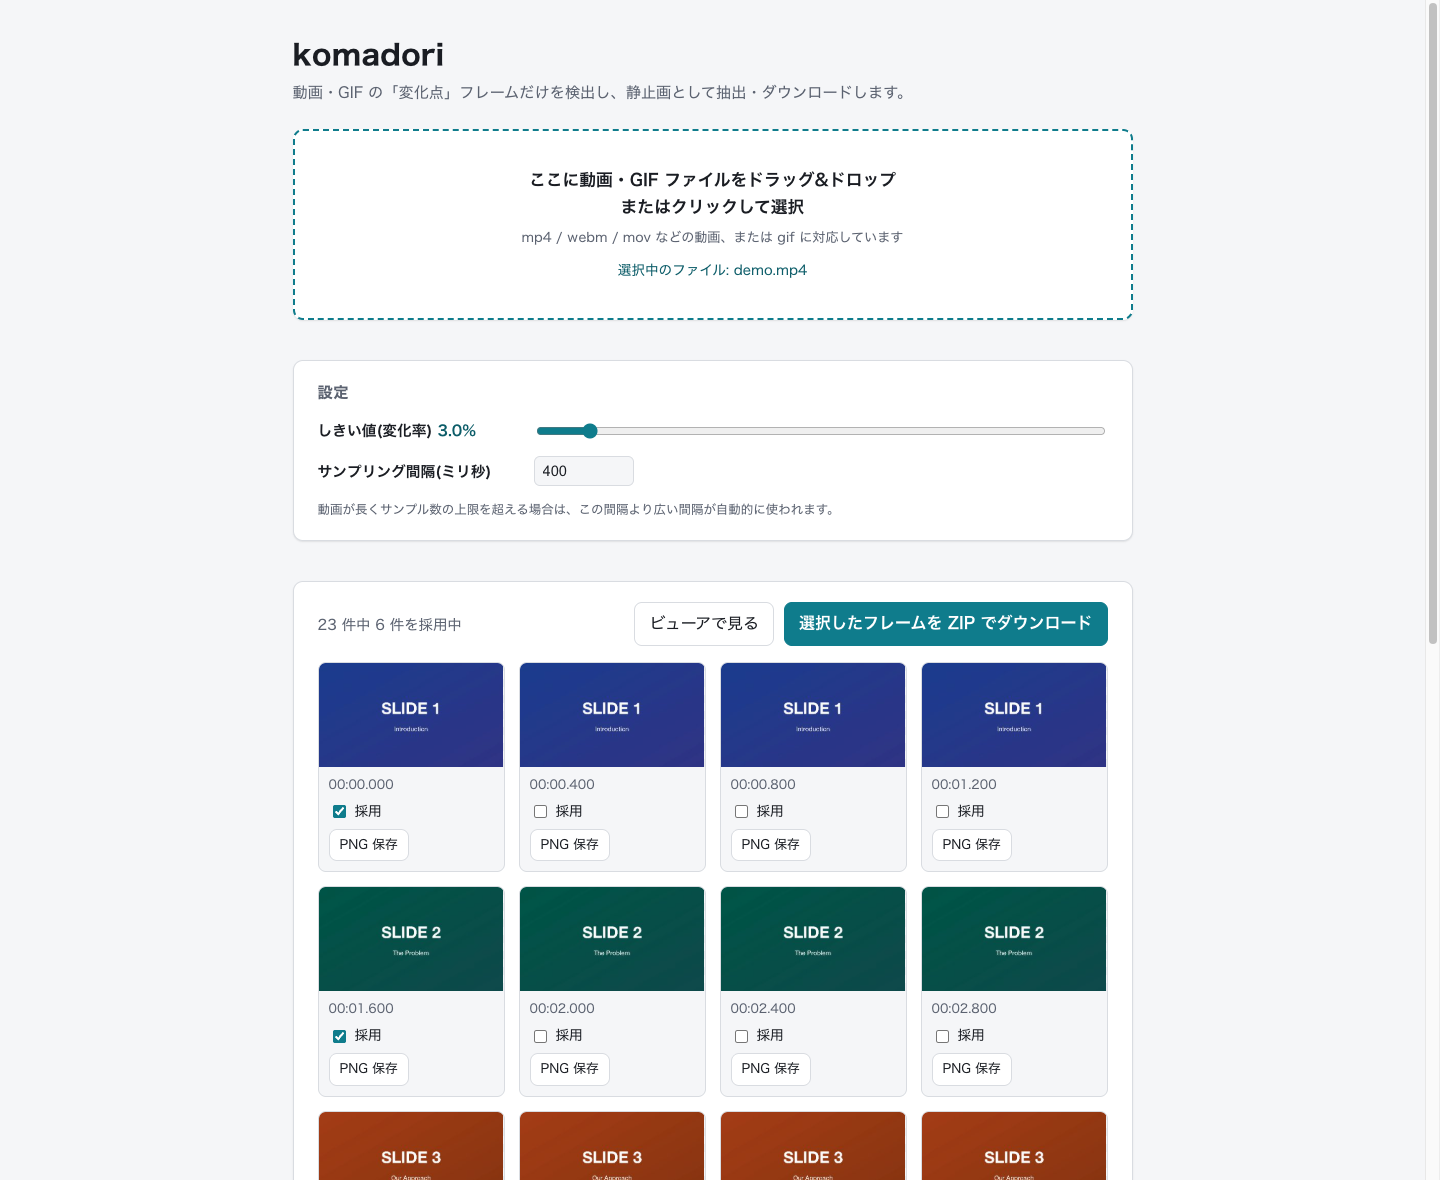
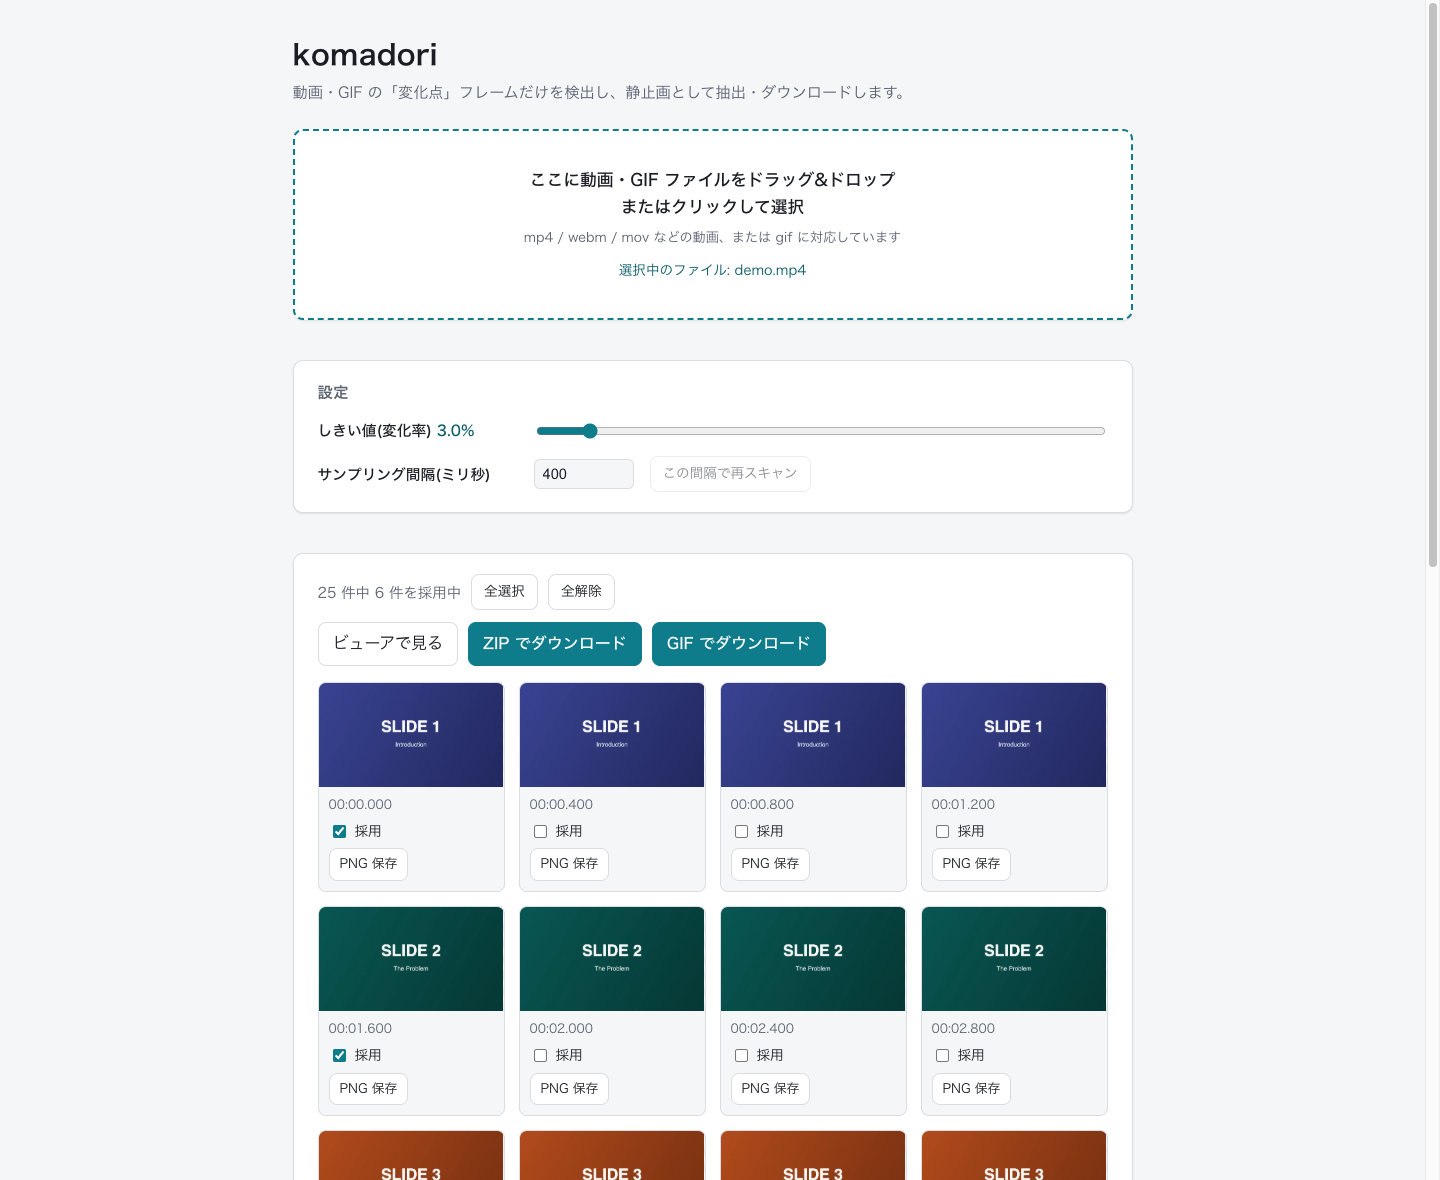
docs: READMEとドキュメント・スクリーンショットを現行UIに合わせて更新する (#17)
スクリーンショットが2026-07-26時点のもので、その後追加された
全選択/全解除ボタン・再スキャンボタン・GIFでダウンロードボタンが
写っていなかったため、同じ構成のスライドデモ動画で撮り直す。

本文も以下を現状に合わせる。

- README: 英語紹介文とリード文にGIF書き出しを反映し、特徴に
  ZIP・GIF書き出しの途中キャンセルを追記する
- usage.md: ZIP・GIF書き出し中の進捗表示とキャンセルボタン、
  書き出しが一度にひとつだけである旨を追記する
- development.md: ランタイム依存にgifencを追加し、ディレクトリ構成へ
  renderQueue.ts / format.ts / gifExport.ts / bulkSelection.ts /
  rescan.tsを反映する

diff --git a/docs/usage.md b/docs/usage.md
@@ -10,7 +10,7 @@
    - しきい値を変更すると、手動で切り替えたチェックボックスの状態はリセットされ、新しいしきい値での自動判定結果に戻ります。
 6. 各フレームの採用/除外は、チェックボックスで手動でも切り替えられます。結果一覧ヘッダの「全選択」「全解除」ボタンを使うと、フレーム数が多いときも1枚ずつクリックせずに一括で切り替えられます(全件が採用中のときは「全選択」が、採用が0件のときは「全解除」が無効になります)。
 7. 一覧の各フレームにある「PNG保存」ボタンから、そのフレームだけを元動画のフル解像度のPNGとしてダウンロードできます。
-8. 「ZIPでダウンロード」ボタンを押すと、チェックが入っている(採用中の)フレームをまとめてZIPでダウンロードできます。
+8. 「ZIPでダウンロード」ボタンを押すと、チェックが入っている(採用中の)フレームをまとめてZIPでダウンロードできます。生成中はボタンに「生成中…(n/総数)」の形式で進捗が表示され、隣に現れる「キャンセル」ボタンで途中で中止できます(中止した場合、ダウンロードは行われません)。
 9. 隣の「GIFでダウンロード」ボタンを押すと、チェックが入っている(採用中の)フレームをまとめてアニメーションGIFとしてダウンロードできます。詳しくは下記「GIF書き出し」を参照してください。
 10. ダウンロードされるファイル名は`{4桁の連番}_{分}m{秒}s{ミリ秒3桁}.png`の形式です(例: `0001_00m03s200.png`)。連番はダウンロード対象のフレームをタイムスタンプの昇順に並べたものです。
 
@@ -30,7 +30,7 @@
 
 ## GIF書き出し
 
-結果一覧ヘッダの「GIFでダウンロード」ボタン(「ビューアで見る」「ZIPでダウンロード」の隣)を押すと、チェックが入っている(採用中の)フレームを1本のアニメーションGIFにまとめてダウンロードできます。生成中はボタンが無効化され、「生成中…(n/総数)」の形式で進捗が表示されます。
+結果一覧ヘッダの「GIFでダウンロード」ボタン(「ビューアで見る」「ZIPでダウンロード」の隣)を押すと、チェックが入っている(採用中の)フレームを1本のアニメーションGIFにまとめてダウンロードできます。生成中はボタンに「生成中…(n/総数)」の形式で進捗が表示され、隣に現れる「キャンセル」ボタンで途中で中止できます(中止した場合、ダウンロードは行われません)。ZIP・GIFの書き出しは一度にひとつだけ実行でき、書き出し中はもう一方のダウンロードボタンも無効になります。
 
 この機能に設定項目はなく、以下の固定値で常に生成します。
 

diff --git a/docs/development.md b/docs/development.md
@@ -24,24 +24,30 @@ npm install
 ## 技術構成
 
 - [Vite](https://vite.dev/) + TypeScript(フレームワークなしのVanilla構成)
-- [Vitest](https://vitest.dev/)によるユニットテスト(`src/core/*.test.ts`)
-- ランタイム依存は以下の2つのみです。
+- [Vitest](https://vitest.dev/)によるユニットテスト(`src/**/*.test.ts`)
+- ランタイム依存は以下の3つのみです。
   - [`gifuct-js`](https://github.com/matt-way/gifuct-js) — GIFのデコード
   - [`fflate`](https://github.com/101arrowz/fflate) — ZIPファイルの生成
+  - [`gifenc`](https://github.com/mattdesl/gifenc) — アニメーションGIFのエンコード(GIF書き出し)
 
 ## ディレクトリ構成
 
 ```
 src/
-  main.ts              # エントリポイント。UIとcoreの配線
+  main.ts              # エントリポイント。UIとcoreの配線、ダウンロード処理
   ui/                  # DOM構築・イベント(入力エリア、設定パネル、進捗、結果一覧、ビューア)
     viewerNav.ts       # ビューアの前後送り対象決定(「採用のみ」フィルタ考慮、純関数)
+    bulkSelection.ts   # 「全選択」「全解除」ボタンの有効/無効判定(純関数)
+    rescan.ts          # 再スキャンボタンの有効/無効判定(純関数)
   core/
     types.ts           # SampledFrame等の型定義
     frameSource.ts     # フレーム供給の共通インターフェース
     videoSource.ts     # <video> + seek + canvasで動画からフレーム列を生成
     gifSource.ts       # gifuct-jsでGIFをデコードしフレーム列を生成
+    renderQueue.ts     # renderFull呼び出しの直列化キュー(シーク混線防止、キャンセル対応)
     diff.ts            # 縮小グレースケール化とフレーム間差分率の計算(純関数)
     extractor.ts       # 差分系列としきい値から採用フレームを決定・再抽出(純ロジック)
-    zip.ts             # 採用フレームのPNG化とZIP生成(fflate)
+    format.ts          # ファイル形式判定・ファイル名・バイト数表記などの整形(純関数)
+    zip.ts             # 採用フレームのZIP生成(fflate、キャンセル対応)
+    gifExport.ts       # 採用フレームのアニメーションGIFエンコード(gifenc)
 ```

diff --git a/README.md b/README.md
@@ -1,8 +1,8 @@
 # komadori
 
-komadori is a client-side web app that detects "change point" frames in videos and GIFs and lets you export them as PNG images (individually or as a ZIP). Everything runs in your browser, and no files are ever uploaded. Try it at **https://komadori.orukubami.sh** (documentation below is in Japanese).
+komadori is a client-side web app that detects "change point" frames in videos and GIFs and lets you export them as PNG images (individually or as a ZIP) or as an animated GIF. Everything runs in your browser, and no files are ever uploaded. Try it at **https://komadori.orukubami.sh** (documentation below is in Japanese).
 
-動画やGIFから「変化点」フレームだけを検出し、静止画(PNG)として抽出・ダウンロードできるWebアプリです。読み込みから変化点の検出、ZIP生成まで、すべてブラウザの中だけで完結します。ファイルはどこにも送信されません。
+動画やGIFから「変化点」フレームだけを検出し、静止画(PNG)として抽出・ダウンロードできるWebアプリです。読み込みから変化点の検出、ZIP・GIF生成まで、すべてブラウザの中だけで完結します。ファイルはどこにも送信されません。
 
 **https://komadori.orukubami.sh**
 
@@ -16,6 +16,7 @@ komadori is a client-side web app that detects "change point" frames in videos a
 - フレームビューアで拡大確認しながら採用/除外を調整
 - 採用フレームを個別PNGまたはまとめてZIPでダウンロード
 - 採用フレームをアニメーションGIFとしても書き出し可能
+- 時間のかかるスキャンやZIP・GIF書き出しは途中でキャンセル可能
 - 完全クライアントサイド。ファイルはサーバーに送信されません
 
 ## 使い方

diff --git a/docs/architecture.md b/docs/architecture.md
@@ -2,7 +2,7 @@
 
 ## 完全クライアントサイド
 
-動画/GIFの読み込み、フレーム抽出、変化点検出、ZIP生成まで、すべてブラウザのタブの中だけで処理されます。サーバーには何も送信されません。
+動画/GIFの読み込み、フレーム抽出、変化点検出、ZIP・GIF生成まで、すべてブラウザのタブの中だけで処理されます。サーバーには何も送信されません。
 
 ## 軽量なスキャン
 
